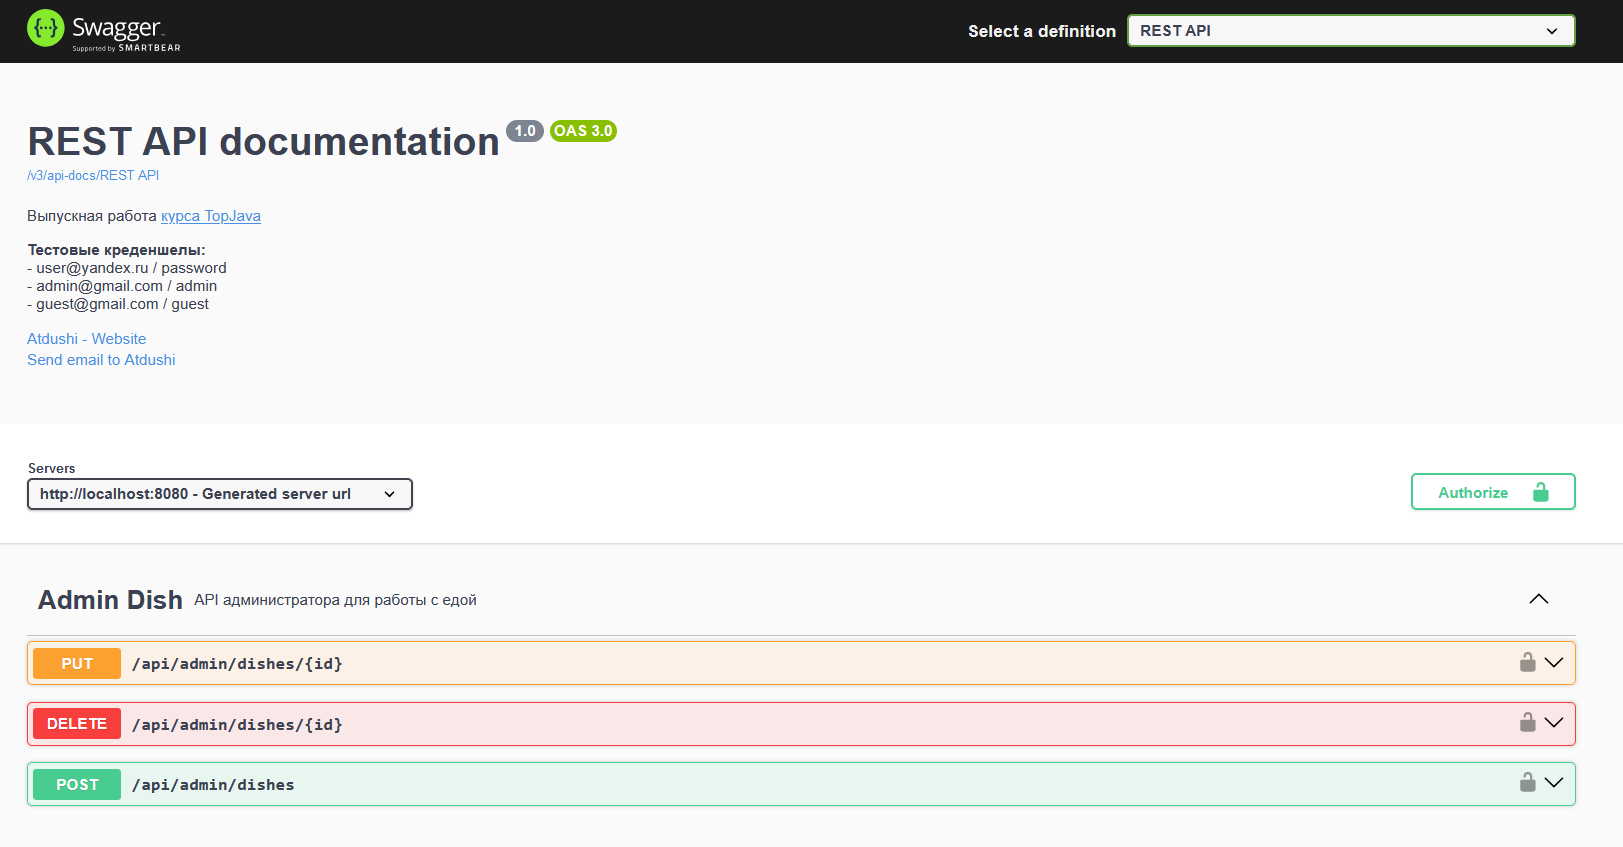
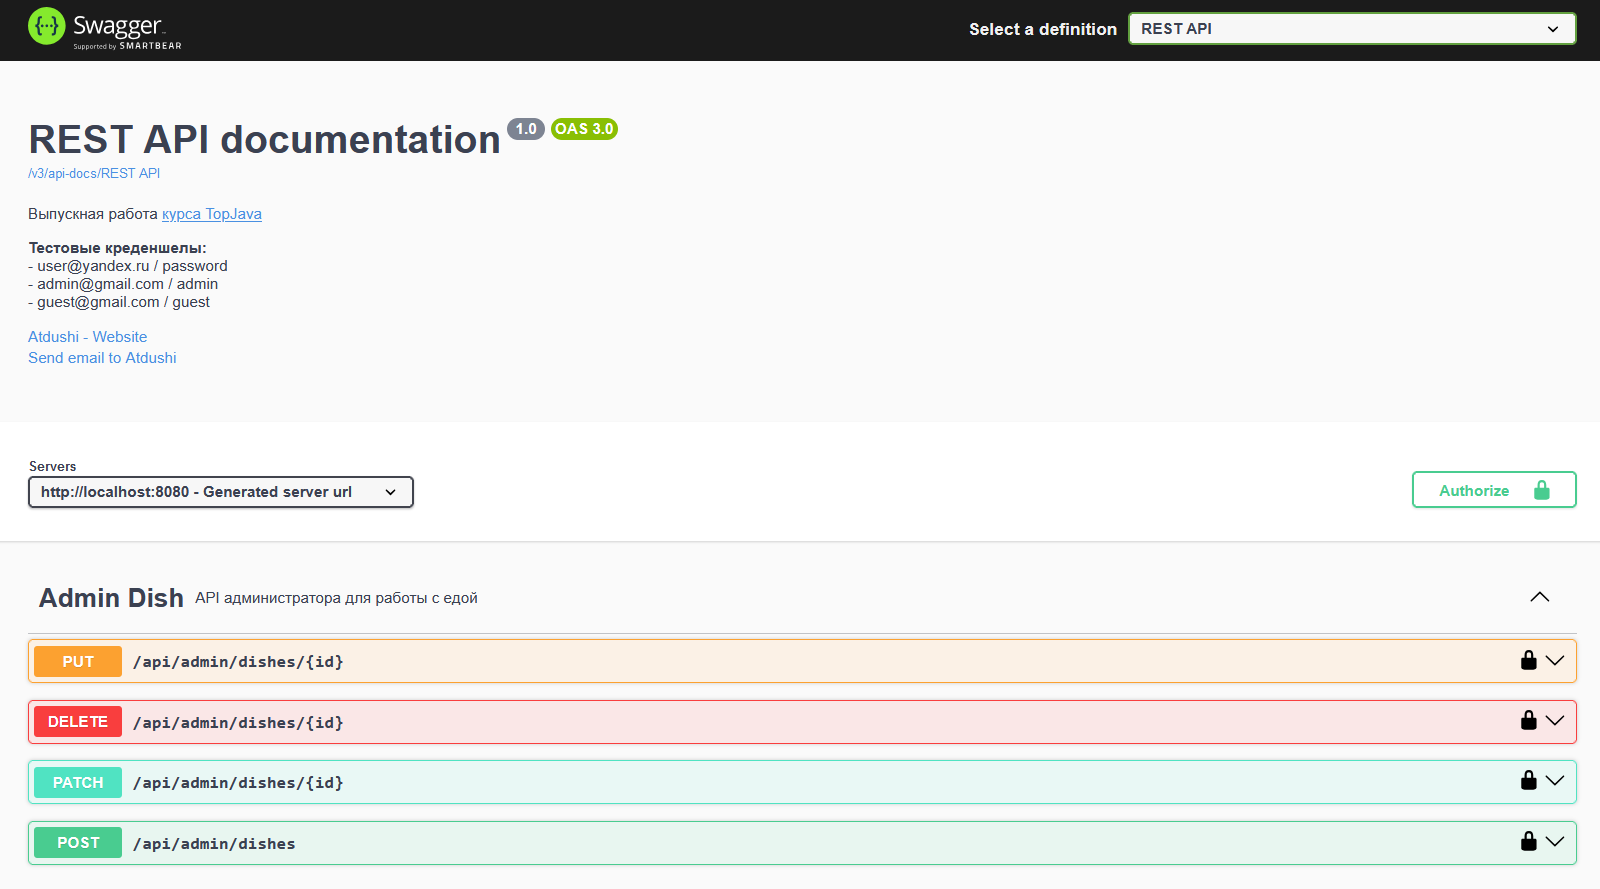
added PATCH methods

diff --git a/src/main/java/com/github/atdushi/voting/web/AdminRestaurantController.java b/src/main/java/com/github/atdushi/voting/web/AdminRestaurantController.java
@@ -15,6 +15,7 @@ import org.springframework.cache.annotation.Caching;
 import org.springframework.http.HttpStatus;
 import org.springframework.http.MediaType;
 import org.springframework.http.ResponseEntity;
+import org.springframework.transaction.annotation.Transactional;
 import org.springframework.web.bind.annotation.*;
 import org.springframework.web.servlet.support.ServletUriComponentsBuilder;
 
@@ -68,5 +69,15 @@ public class AdminRestaurantController {
             throw new NotFoundException("Restaurant with id=" + id + " not found");
         }
         repository.save(RestaurantUtil.createNewFromTo(restaurantTo));
+    }
+
+    @PatchMapping("/{id}")
+    @ResponseStatus(HttpStatus.NO_CONTENT)
+    @Transactional
+    public void enable(@PathVariable int id, @RequestParam String name) {
+        log.info("update restaurant {} with name {}", id, name);
+        Restaurant restaurant = repository.getExisted(id);
+        restaurant.setName(name);
+        repository.save(restaurant);
     }
 }

diff --git a/src/main/java/com/github/atdushi/voting/web/AdminDishController.java b/src/main/java/com/github/atdushi/voting/web/AdminDishController.java
@@ -92,4 +92,14 @@ public class AdminDishController {
                 .buildAndExpand(created.getId()).toUri();
         return ResponseEntity.created(uriOfNewResource).body(created);
     }
+
+    @PatchMapping("/{id}")
+    @ResponseStatus(HttpStatus.NO_CONTENT)
+    @Transactional
+    public void enable(@PathVariable int id, @RequestParam int price) {
+        log.info("update price {} for dish {}", price, id);
+        Dish dish = repository.getExisted(id);
+        dish.setPrice(price);
+        repository.save(dish);
+    }
 }
